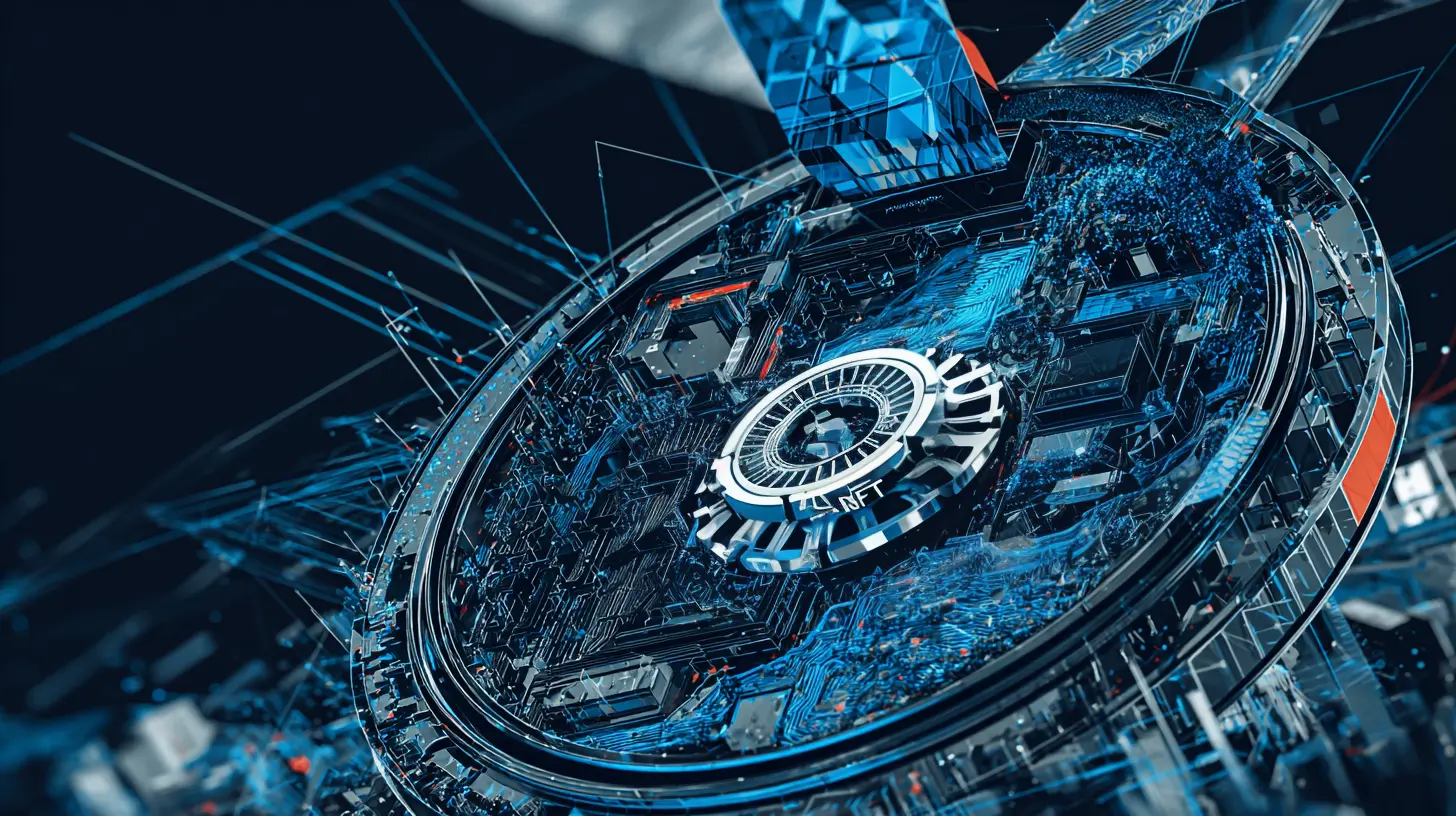
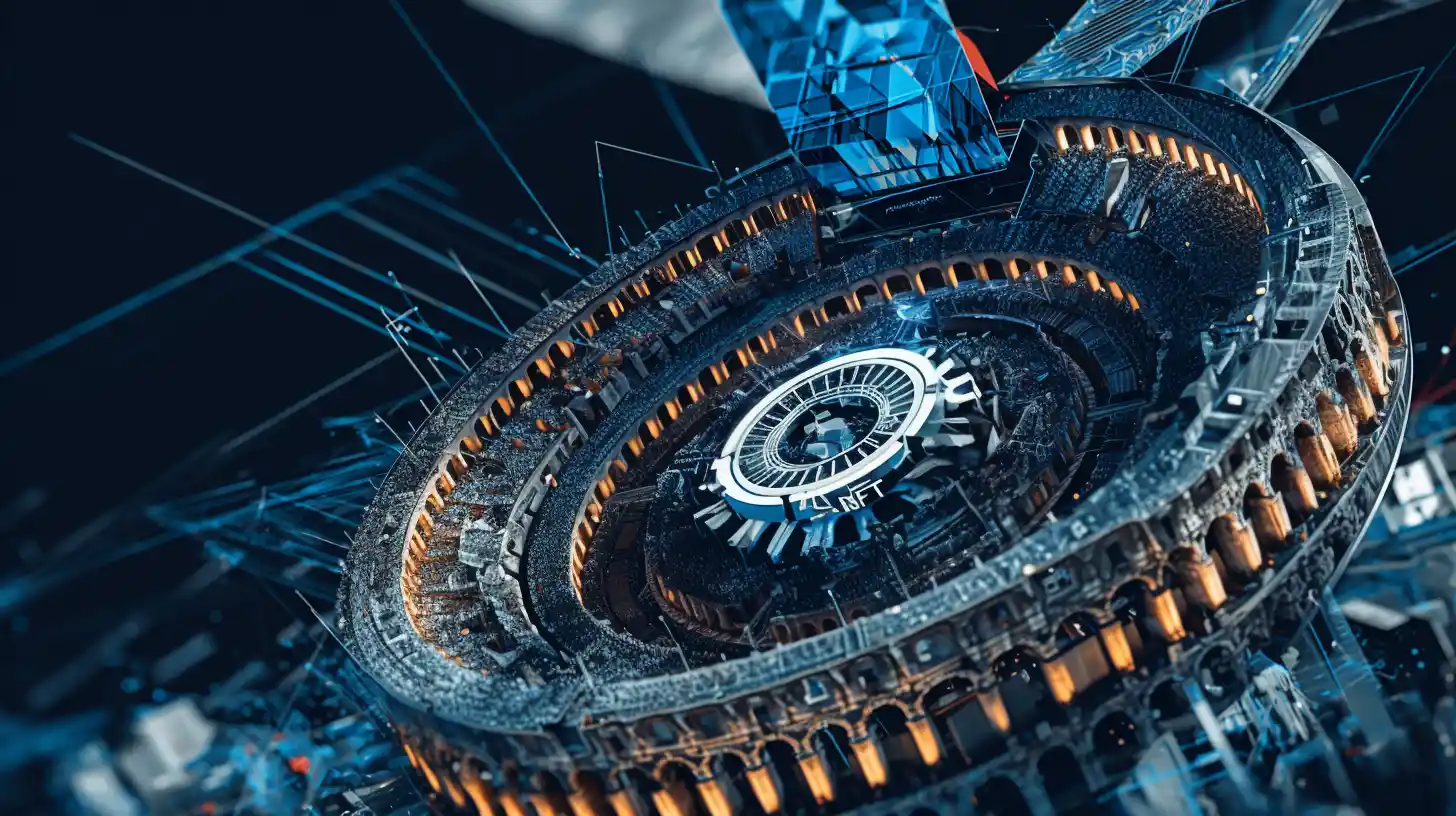
add links

diff --git a/public/css/style.css b/public/css/style.css
@@ -7,10 +7,11 @@ body {
     background-repeat: no-repeat;
     font-family: sans-serif;
     color: rgb(240, 240, 240);
+    transition: background-image 0.2s ease-in-out;
 }
 .text-slogan {
     position: absolute;
-    top: 20px;
+    top: 80px;
     left: 20px;
     line-height: 1.2;
 }
@@ -21,6 +22,34 @@ body {
     color: rgb(237, 154, 55);
     text-shadow: 2px 2px 4px rgba(0, 0, 0, 0.7);
 }
+#main-nav {
+    position: absolute;
+    top: 20px;
+    left: 20px;
+    display: flex;
+    gap: 20px;
+    z-index: 1000;
+}
+
+#main-nav a {
+    color: #a8dfff;
+    text-decoration: none;
+    font-family: sans-serif;
+    font-weight: bold;
+    font-size: 1.5vw;
+    padding: 5px 10px;
+    background: rgba(0, 0, 0, 0.2);
+    border-radius: 5px;
+    backdrop-filter: blur(2px);
+    transition: background-color 0.3s;
+}
+
+#main-nav a:hover {
+    background-color: rgba(237, 154, 55, 0.2);
+    color: #fff;
+    text-decoration: none;
+}
+
 .bottom-bar {
     position: fixed;
     left: 0;
@@ -48,13 +77,14 @@ a {
 a:hover { text-decoration: underline; }
 
 body {
-    background-image: url('../images/background-landscape.webp'); 
+    background-image: url('../images/background-landscape1.webp'); 
 }
 @media screen and (orientation: portrait) {
-    body {
-        background-image: url('../images/background-portrait.webp');
-    }
     .text-slogan p {
         font-size: 6vw; 
+    }
+    #main-nav a {
+        font-size: 4vw;
+        gap: 10px;
     }
 }

diff --git a/sportstrophies.js b/sportstrophies.js
@@ -6,10 +6,29 @@ const PORT = 3001;
 app.set('view engine', 'ejs');
 app.set('views', path.join(__dirname, 'views'));
 
-app.use(express.static(path.join(__dirname, 'public')));
+const oneDay = 60 * 60 * 24;
+const oneYear = oneDay; // * 365;
+
+app.use(express.static(path.join(__dirname, 'public'), {
+    maxAge: oneYear * 1000, // Set maximum cache time (in milliseconds)
+    // Cache-Control header will be set to: public, max-age=31536000
+}));
 
 app.get('/', (req, res) => {res.render('index');});
 
+app.get('/athletes', (req, res) => {
+    res.render('athletes', { title: 'For Athletes' });
+});
+
+app.get('/organizers', (req, res) => {
+    res.render('organizers', { title: 'For Organizers' });
+});
+
+app.get('/clubs', (req, res) => {
+    res.render('clubs', { title: 'For Clubs and Stores' });
+});
+
+
 app.listen(PORT, () => {
-    console.log(`Сервер запущен на http://localhost:${PORT}`);
+    console.log(`The server is running on http://localhost:${PORT}`);
 });

diff --git a/public/css/athletes.css b/public/css/athletes.css
@@ -1,0 +1,21 @@
+body {
+    background-image: none;
+    background-color: #111111;
+}
+.text-slogan p {
+    color: #ffc400; 
+}
+#main-nav a {
+    color: #ffc400; 
+}
+#main-nav a:hover {
+    background-color: rgba(255, 196, 0, 0.2);
+    color: #fff;
+}
+
+@media screen and (orientation: portrait) {
+    body {
+        background-image: none;
+        background-color: #111111;
+    }
+}

diff --git a/public/css/clubs.css b/public/css/clubs.css
@@ -1,0 +1,21 @@
+body {
+    background-image: none;
+    background-color: #040a1a;
+}
+.text-slogan p {
+    color: #00d9ff; 
+}
+#main-nav a {
+    color: #00d9ff;
+}
+#main-nav a:hover {
+    background-color: rgba(0, 217, 255, 0.2);
+    color: #fff;
+}
+
+@media screen and (orientation: portrait) {
+    body {
+        background-image: none;
+        background-color: #040a1a;
+    }
+}

diff --git a/public/css/organizers.css b/public/css/organizers.css
@@ -1,0 +1,21 @@
+body {
+    background-image: none;
+    background-color: #1a0505;
+}
+.text-slogan p {
+    color: #ff0000; 
+}
+#main-nav a {
+    color: #ff0000;
+}
+#main-nav a:hover {
+    background-color: rgba(255, 0, 0, 0.2);
+    color: #fff;
+}
+
+@media screen and (orientation: portrait) {
+    body {
+        background-image: none;
+        background-color: #1a0505;
+    }
+}
